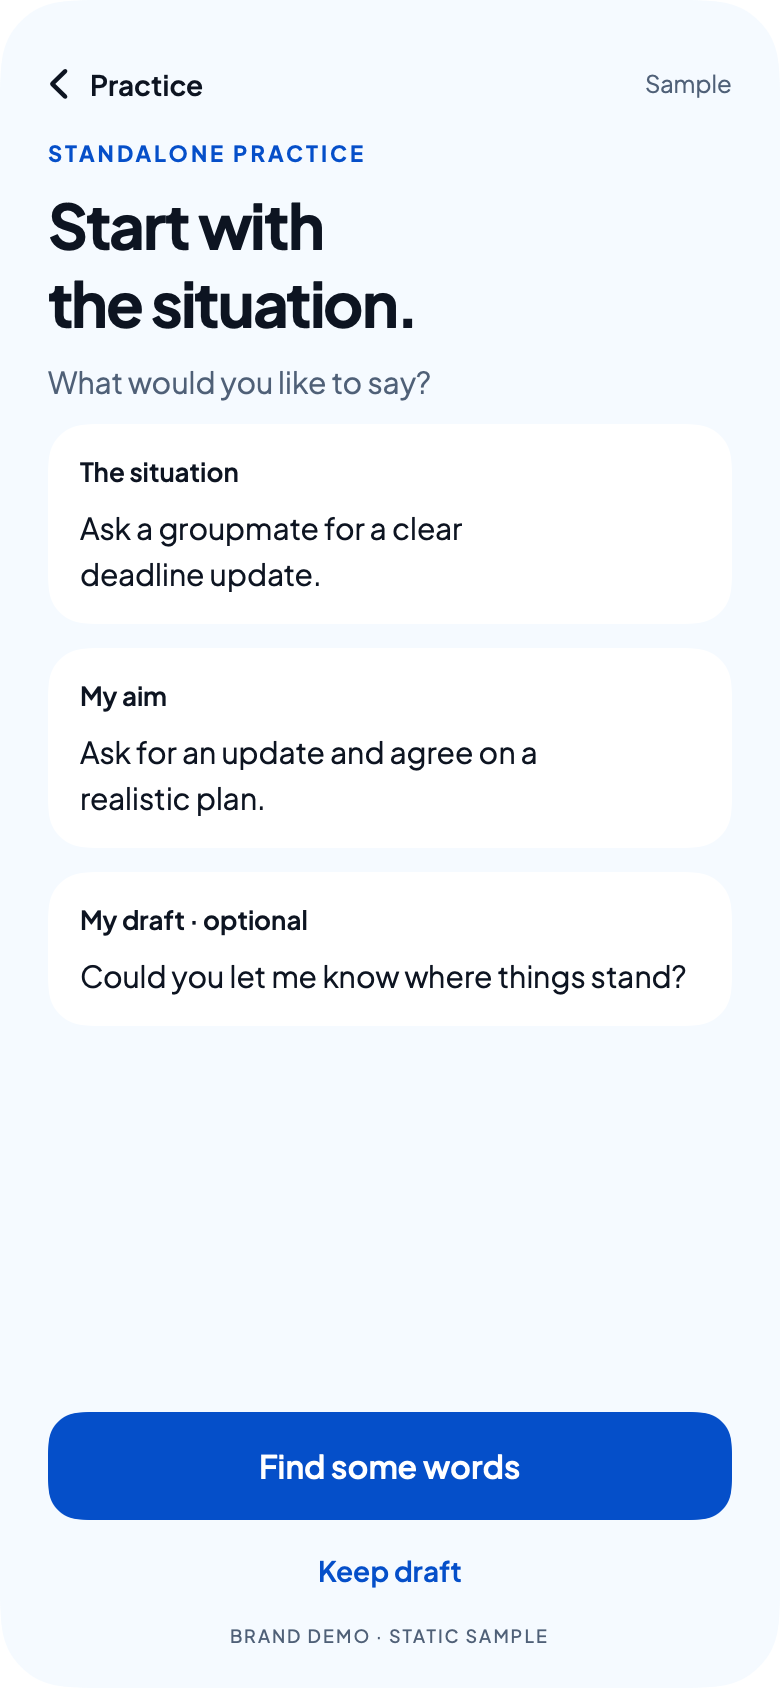
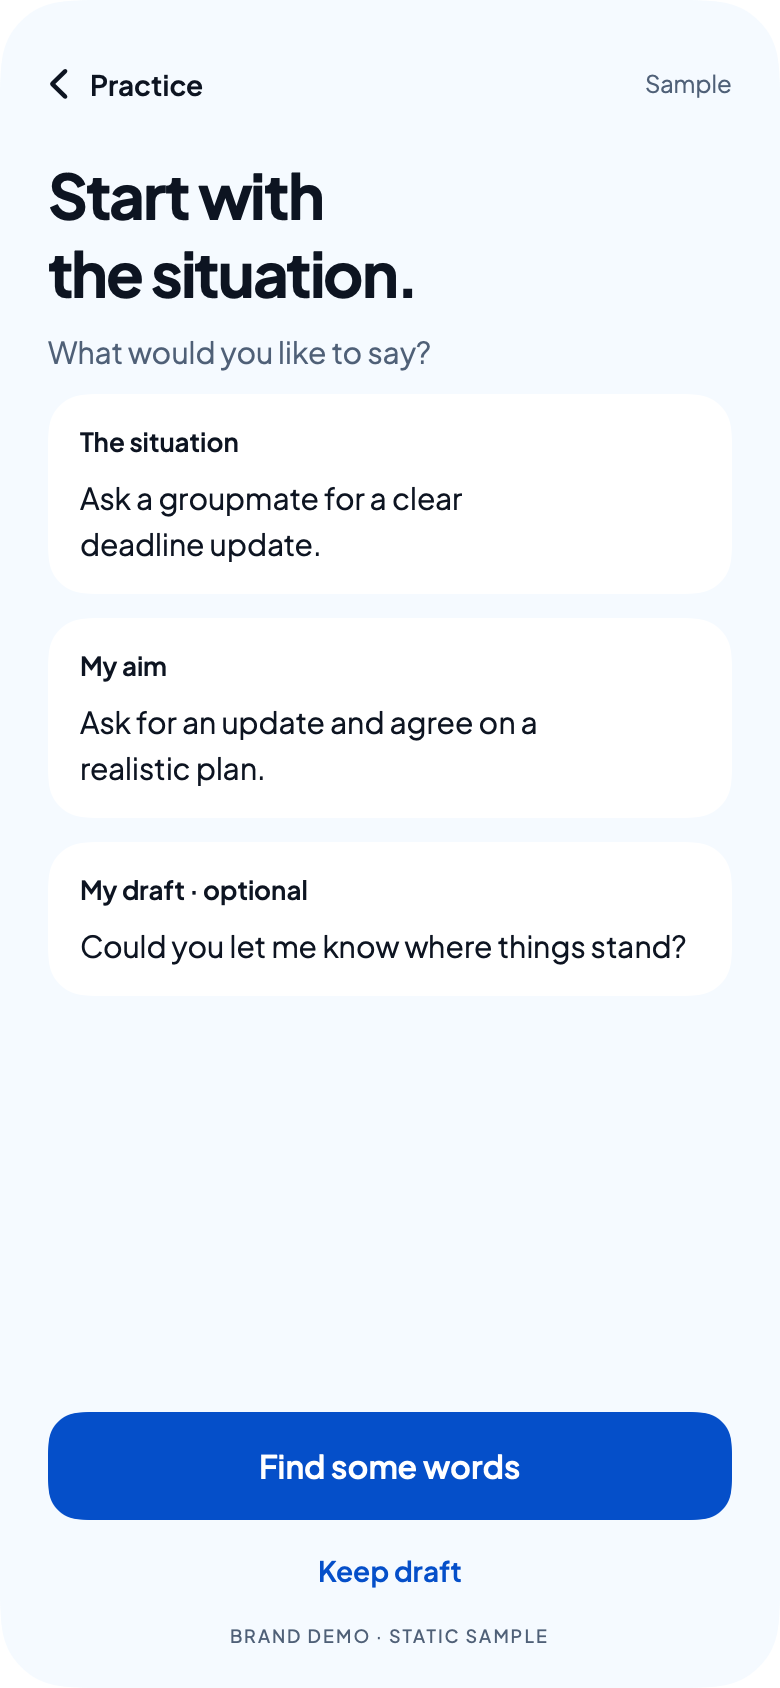
feat(prototype): move sample labels to captions and use tab-name headings
Owner decisions: review labels like DESCRIBE A MOMENT now sit above each
screen in comparison boards instead of inside the phone screen (Sample
chip and footer still mark individual screens), and the Journal and
Practice hubs use the plain tab names as headings. Renders regenerated.

Changed region(s): [[0.0615, 0.0616, 0.7077, 0.4929], [0.0923, 0.5237, 0.8923, 0.5853]]

diff --git a/Prototypes/CircleUVisualPrototype/Sources/CircleUVisualPrototype/BrandJourneyPreview.swift b/Prototypes/CircleUVisualPrototype/Sources/CircleUVisualPrototype/BrandJourneyPreview.swift
@@ -75,9 +75,9 @@ public struct BrandJourneyPreview: View {
                 }
                 .padding(.bottom, 8)
             } else {
-                BrandFixture.eyebrow(linkedContext && screen == .practiceContext
-                    ? (updatedSource ? "UPDATED LINKED CONTEXT" : "PRACTICE FROM AN ENTRY") : screen.eyebrow)
-                BrandFixture.title(screen.title)
+                // Review labels (screen.eyebrow) are captions outside the phone frame, so the
+                // screen itself reads like the app; the Sample chip and footer still mark it.
+                BrandFixture.title(screen.title).padding(.top, 8)
             }
             VStack(alignment: .leading, spacing: 12) { content }
                 .fixedSize(horizontal: false, vertical: true)
@@ -335,8 +335,14 @@ public struct BrandLinkedContextGallery: View {
             Text("The reflection you choose, and the version you review")
                 .font(BrandDemoFont.font(21, .semibold)).tracking(-0.5)
             HStack(alignment: .top, spacing: 24) {
-                BrandJourneyPreview(screen: .practiceContext, linkedContext: true, iconLed: iconLed)
-                BrandJourneyPreview(screen: .practiceContext, linkedContext: true, updatedSource: true, iconLed: iconLed)
+                VStack(alignment: .leading, spacing: 12) {
+                    BrandFixture.eyebrow("PRACTICE FROM AN ENTRY")
+                    BrandJourneyPreview(screen: .practiceContext, linkedContext: true, iconLed: iconLed)
+                }
+                VStack(alignment: .leading, spacing: 12) {
+                    BrandFixture.eyebrow("UPDATED LINKED CONTEXT")
+                    BrandJourneyPreview(screen: .practiceContext, linkedContext: true, updatedSource: true, iconLed: iconLed)
+                }
             }
             BrandFixture.detail("Original and changed-source fixtures · Static review only · Earlier wording is not silently reused", size: 12)
         }

diff --git a/Prototypes/CircleUVisualPrototype/Sources/CircleUVisualPrototype/BrandFlowPreview.swift b/Prototypes/CircleUVisualPrototype/Sources/CircleUVisualPrototype/BrandFlowPreview.swift
@@ -86,13 +86,12 @@ public struct BrandHubPreview: View {
                 }
                 .padding(.top, 12)
                 HStack(alignment: .center) {
-                    BrandFixture.eyebrow(screen.rawValue.uppercased())
+                    BrandFixture.title(screen.rawValue)
                     Spacer()
                     BrandArtwork(name: screen == .journal ? "BrandJournal" : "BrandPracticeV2")
                         .frame(width: 48, height: 48)
                 }
                 .padding(.top, 12)
-                BrandFixture.title(screen == .journal ? "Your moments" : "Find your words")
 
                 if screen == .journal {
                     HStack(spacing: 10) {
